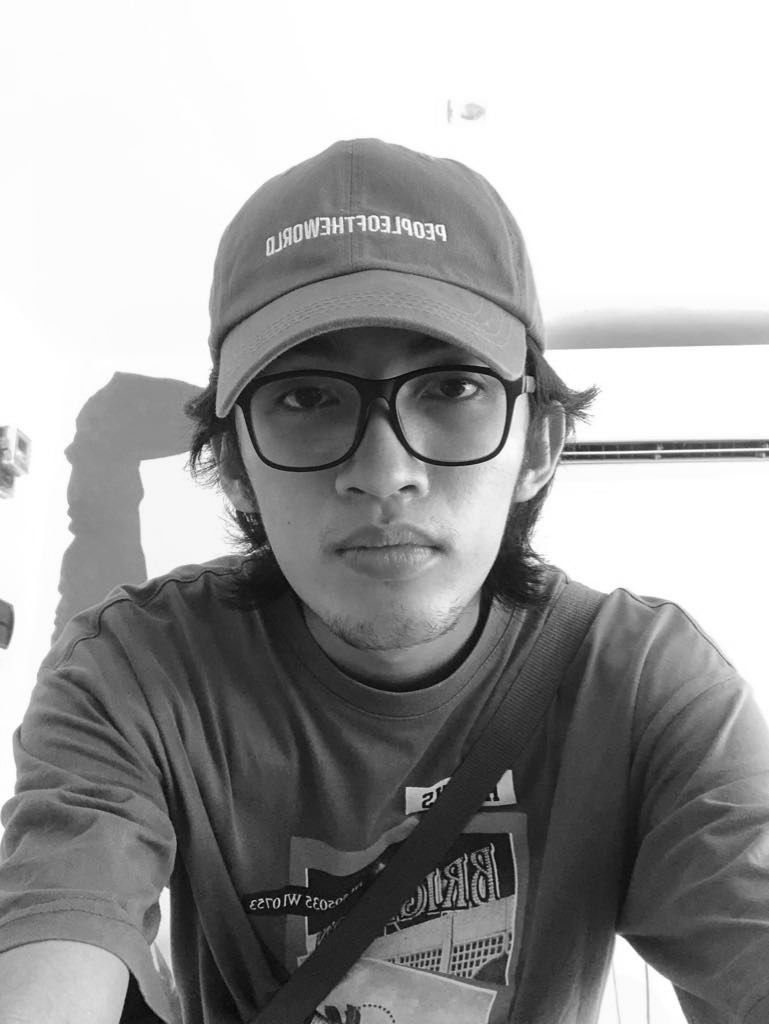
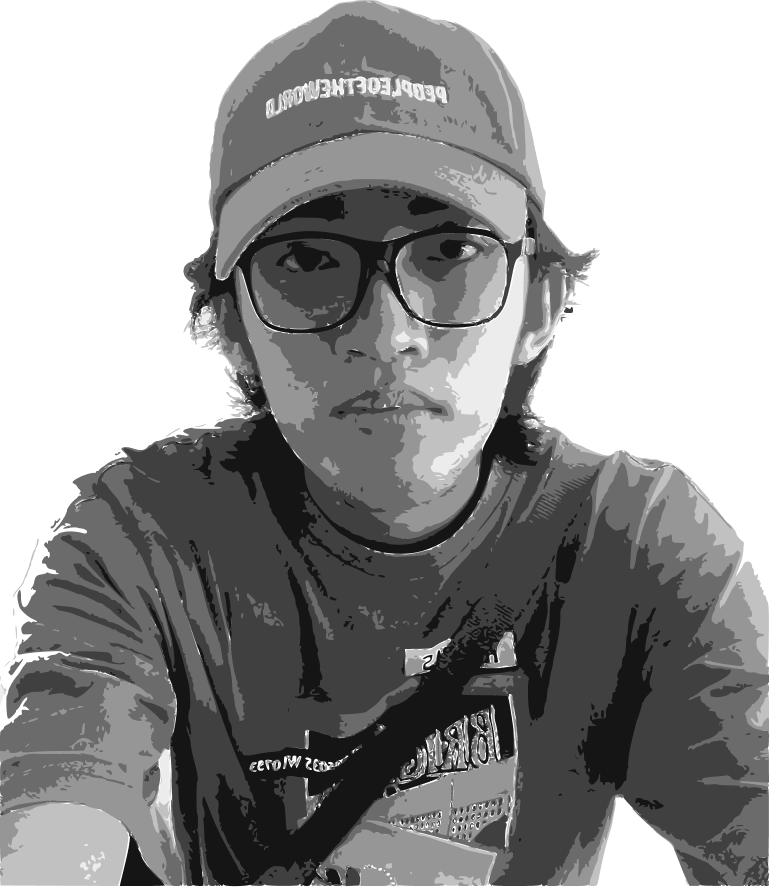
no whitespace?

diff --git a/style.css b/style.css
@@ -102,56 +102,69 @@ section .bento-2 {
     position: absolute;
 }
 
-.aboutme {
-    margin-top: 100px;
+.frame6 {
+    background-color: #373737;
+    width: 25%;
+    height: 350px;
+    border-radius: 40px;
+    margin-right: 10px;
+}
+
+.frame7 {
+    background-color: #373737;
+    width: 37%;
+    height: 350px;
+    border-radius: 40px;
+    margin-right: 10px;
+    display: flex;
+    justify-content: center;
+    align-items: center;
+}
+
+.frame7 h1 {
+    color: white;
+    font-size: 100px;
+    margin: 0;
+    padding-bottom: 20px;
+}
+
+.frame8 {
+    background-color: #373737;
+    width: 37%;
+    height: 350px;
+    border-radius: 40px;
+}
+.frame8 img {
+    position: absolute;
+    width: 300px;
+    top: 670px
+}
+.frame8 h1 {
+    color: white;
+    position: absolute;
+    right: 140px;
+    padding-top: 210px;
+    width: 175px;
+}
+
+.frame9 {
+    background-color: #fff;
+    width: 25%;
+    height: 350px;
+    border-radius: 40px;
+    margin-right: 10px;
     display: flex;
     justify-content: center;
 }
-
-.aboutme h3 {
-    font-weight: normal;
-    z-index: 1000;
-    justify-content: flex-start;    
-    width: 150px;
-    padding-right: 200px;
-    padding-top: 400px;
+.frame9 img{
+    border-radius: 40px;
+    width: 100%;
+    height: 350px;
 }
 
-.lilfella-img {
-    position: absolute;
-    padding-right: 900px;
-    padding-top: 120px;
+.frame10 {
+    background-color: #373737;
+    width: 75%;
+    height: 350px;
+    border-radius: 40px;
 }
-
-.swirl {
-    position: absolute;
-    padding-right: 900px;
-    padding-top: 280px;
-    
-}
-
-.picofme img{
-    align-items: center;
-    padding-right: 100px;
-    width: 400px;
-    z-index: 100;
-}
-
-.aboutme h1 {
-    position: absolute;
-    font-family: "Montserrat", serif;
-    font-size: 50px;
-    font-weight: black;
-    padding-left: 700px;
-    padding-top: 15px;
-    margin: 0;
-}
-
-.aboutme-p {
-    position: absolute;
-    width: 400px;
-    font-size: 20px;
-    padding-left: 1100px;
-    padding-top: 80px;
-}
-

diff --git a/index.html b/index.html
@@ -36,24 +36,24 @@
                 <img src="assets/h1.png" alt="whatido">
             </div>
         </section>
-        <section class="aboutme">
-            <h3>just your regular CS student</h3>
-            <div class="lilfella-img">
-                <img src="assets/lilfella.png" alt="lilfella">
+        <section class="bento-3">
+            <div class="frame6">
+
             </div>
-            <div class="swirl">
-                <img src="assets/swirl.png" alt="swirl">
+            <div class="frame7">
+                <h1>ABOUT ME</h1>
             </div>
-            <div class="picofme">
-                <img src="assets/meself.jpg" alt="picome">
+            <div class="frame8">
+                <img src="assets/astro.png" alt="astro">
+                <h1>yo, where is <br>the whitespace?!</h1>
             </div>
-            <h1>ABOUT ME</h1>
-            <div class="aboutme-p">
-                <p>I’m a third-year Computer Science student with a passion for creativity and innovation.
-                Alongside my studies, I specialize in graphic design and UI/UX design, combining technical skills
-                with artistic vision to create intuitive and visually engaging digital experiences. Whether it’s
-                crafting sleek user interfaces or bringing ideas to life through design, I thrive at the
-                intersection of technology and creativity.</p>
+        </section>
+        <section class="bento-4">
+            <div class="frame9">
+                <img src="assets/meself.jpg" alt="meself">
+            </div>
+            <div class="frame10">
+
             </div>
         </section>
     </main>
